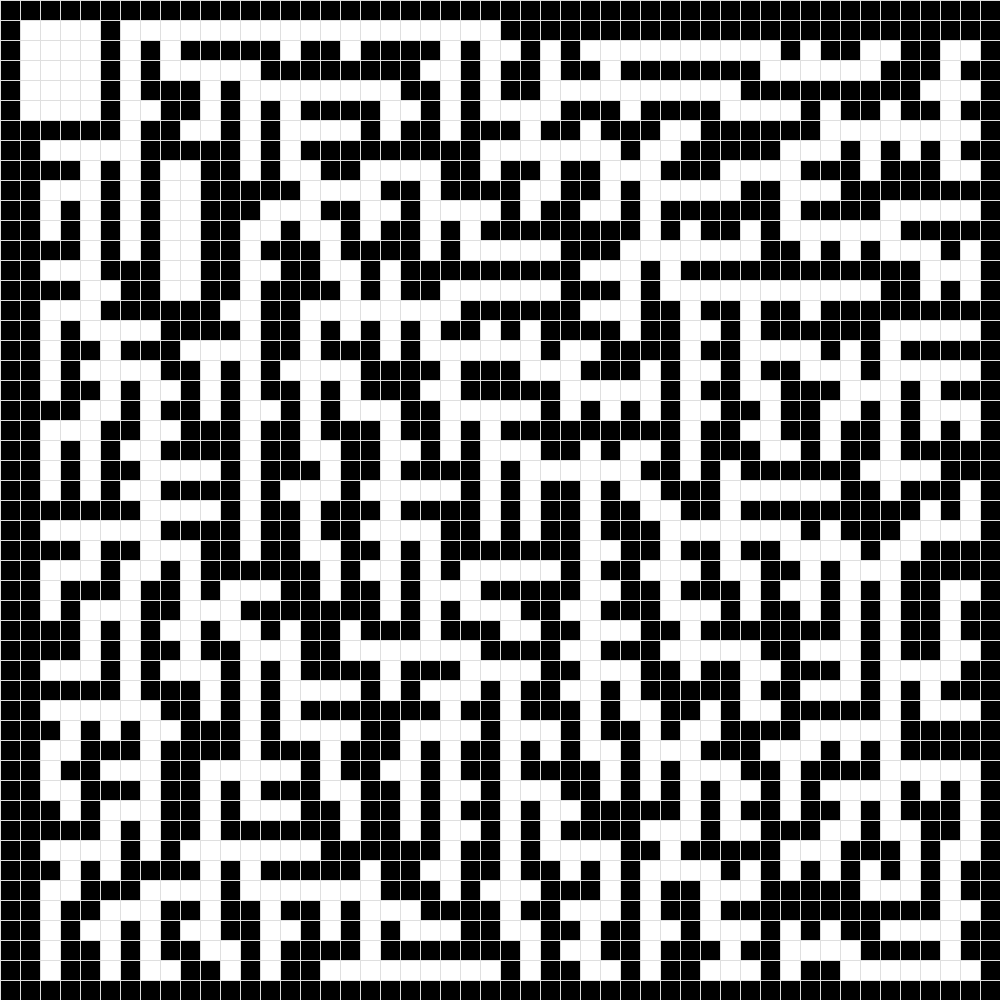
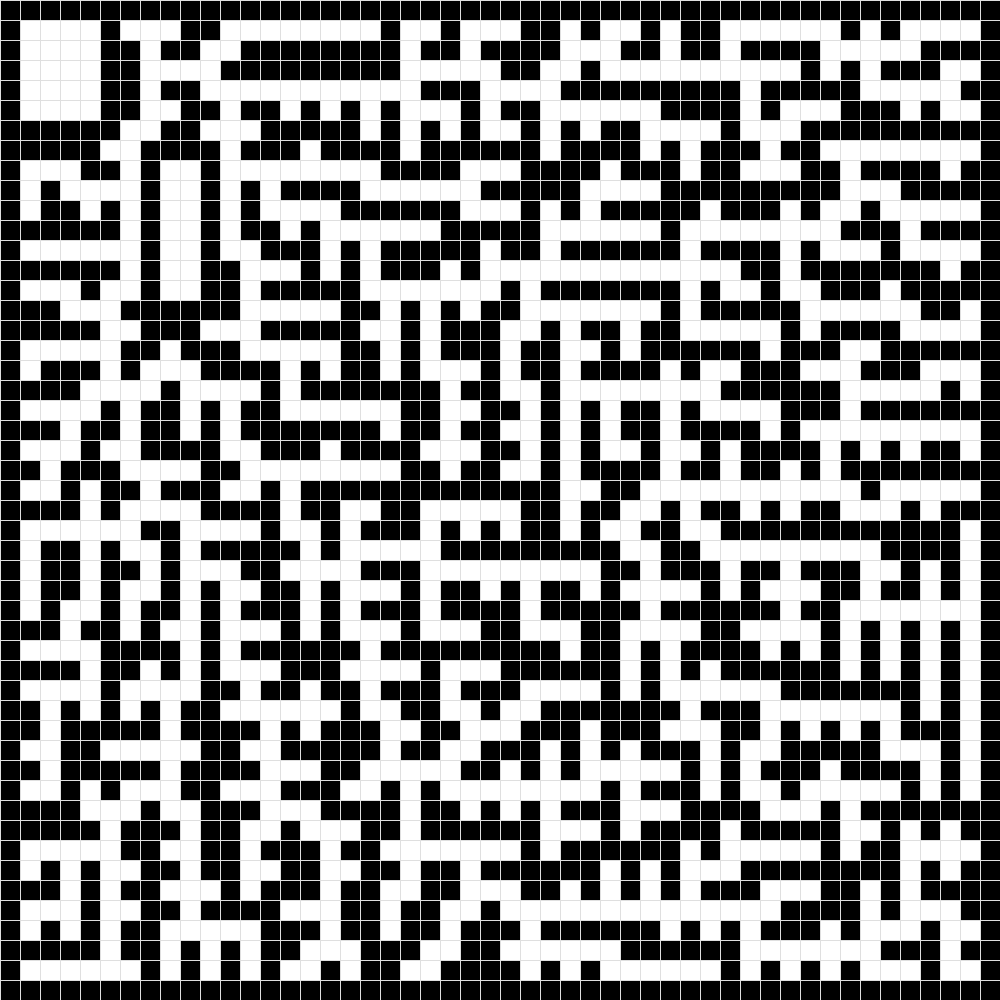
Fixed an issue that caused corridors to often avoid the upper and left wall

diff --git a/src/services/maze_generation_service.py b/src/services/maze_generation_service.py
@@ -59,13 +59,13 @@ class MazeGenerationService:
                         if self._count_adjacent_passages(rand_wall) < 2:
                             self._add_passage(rand_wall)
                             continue
-                if rand_wall[1] - 1 > 0:
+                if rand_wall[1] - 1 >= 0:
                     if (self._maze_cells[rand_wall[0]][rand_wall[1] - 1] == 'u'
                     and self._maze_cells[rand_wall[0]][rand_wall[1] + 1] == 'p'):
                         if self._count_adjacent_passages(rand_wall) < 2:
                             self._add_passage(rand_wall)
                             continue
-                if rand_wall[0] - 1 > 0:
+                if rand_wall[0] - 1 >= 0:
                     if (self._maze_cells[rand_wall[0] - 1][rand_wall[1]] == 'u'
                     and self._maze_cells[rand_wall[0] + 1][rand_wall[1]] == 'p'):
                         if self._count_adjacent_passages(rand_wall) < 2:
